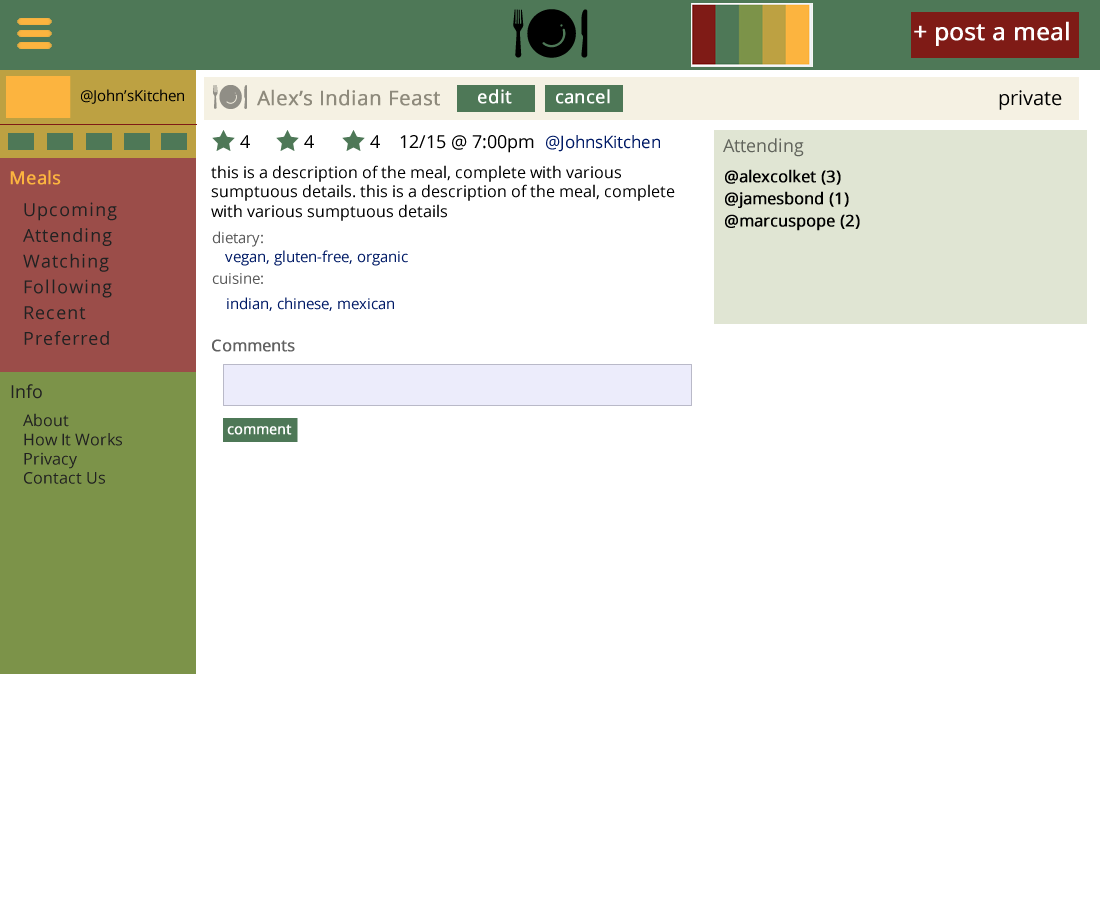
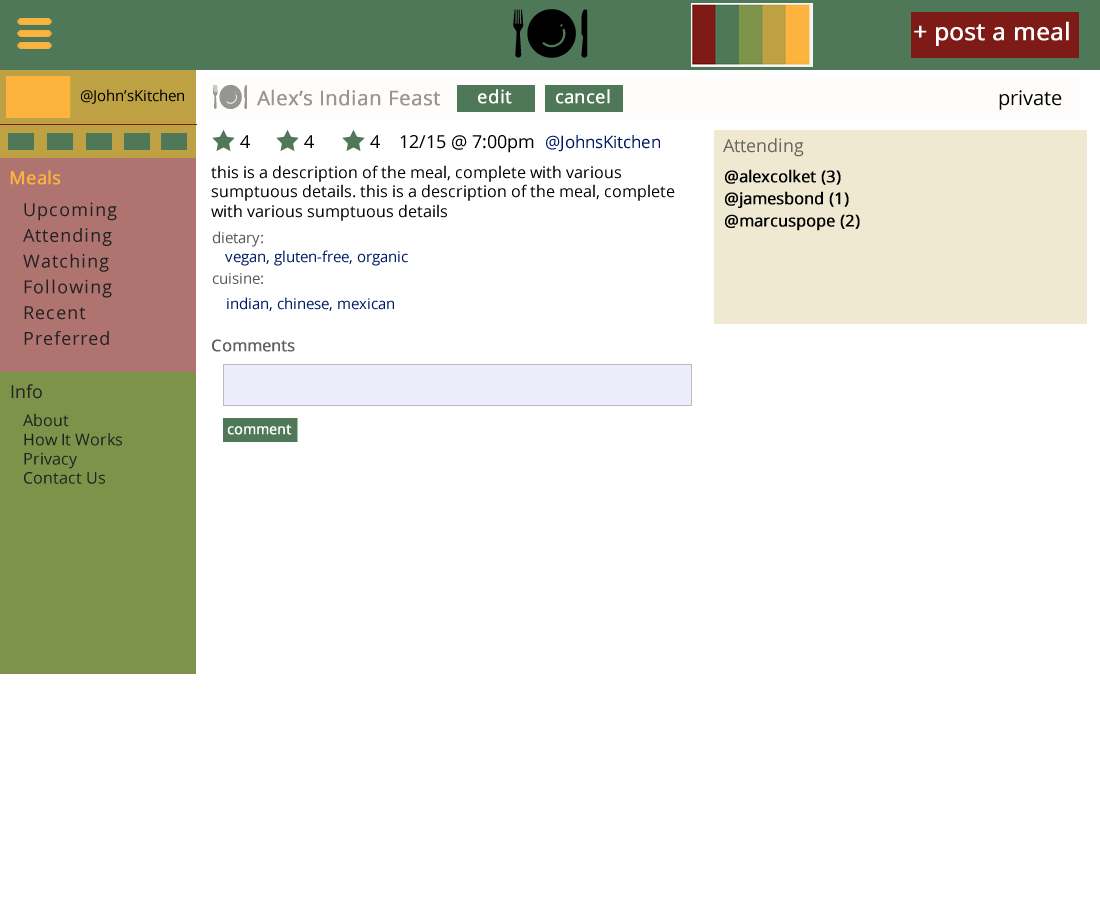
improvements to user section of sidebar

Changed region(s): [[0.0, 0.1556, 0.1855, 0.4356]]

diff --git a/app/assets/stylesheets/application.css.scss b/app/assets/stylesheets/application.css.scss
@@ -255,15 +255,24 @@
 
 #profile-section {
   position: relative;
-  height: 100px;
   width: 100%;
   background-color: #C3B157;
+  hr {
+    border-color: #994C48;
+    padding: 0px;
+    margin: 0px 5px;
+  }
 }
 #filter-section {
+  h4 {
+    color: #FCB43F;
+    font-size: 18px
+  }
   a {
-    color: #922A1E;
+    color: #212121;
     display: block;
-    font-size: 20px;
+    font-size: 18px;
+    margin-left: 8px;
   }
   padding: 10px;
 }
@@ -275,9 +284,14 @@
     list-style-type: none;
   }
   a {
-    font-size: 14px;
-    line-height: 14px;
+    font-size: 18px;
+    line-height: 20px;
   }
+}
+#profile-links {
+  text-align:left;
+
+
 }
 
 #notifications {
@@ -418,5 +432,22 @@
   #menu {
     left: -300px;
     width: 300px;
+  }
+}
+
+#user-icon-bar {
+  width: 100%;
+  clear:both;
+  padding-left:5px;
+  height: 33px;
+  div {
+    width: 40px;
+    line-height: 1em;
+    text-align:center;
+    display: inline;
+    i {
+      margin: 0 7px;
+      font-size: 27px;
+    }
   }
 }
